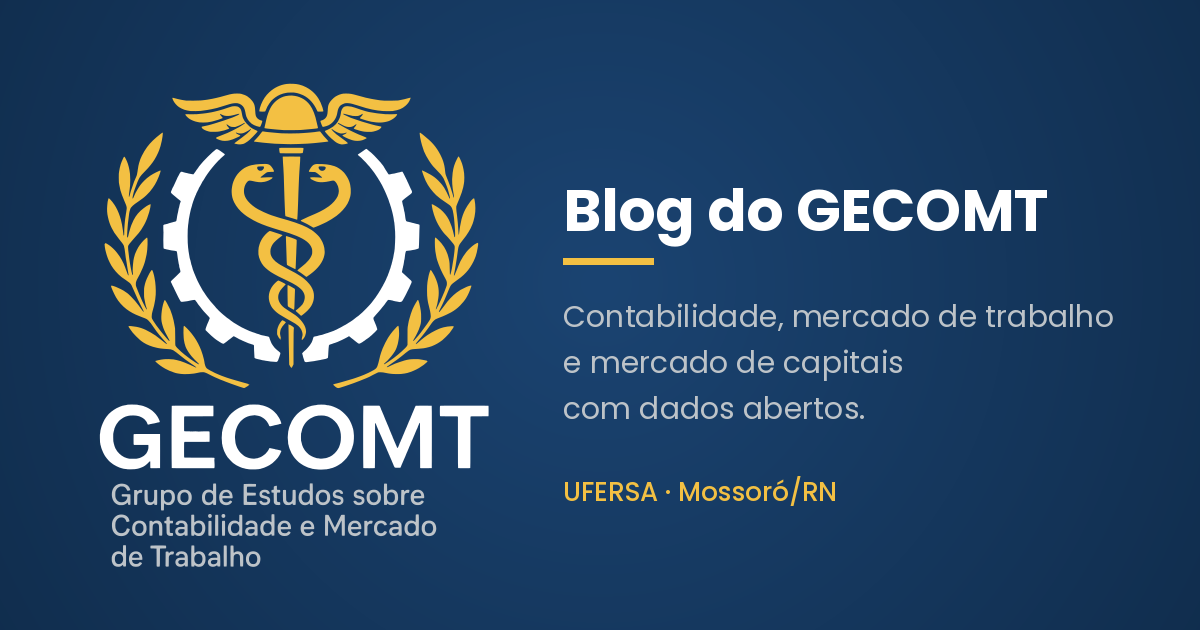
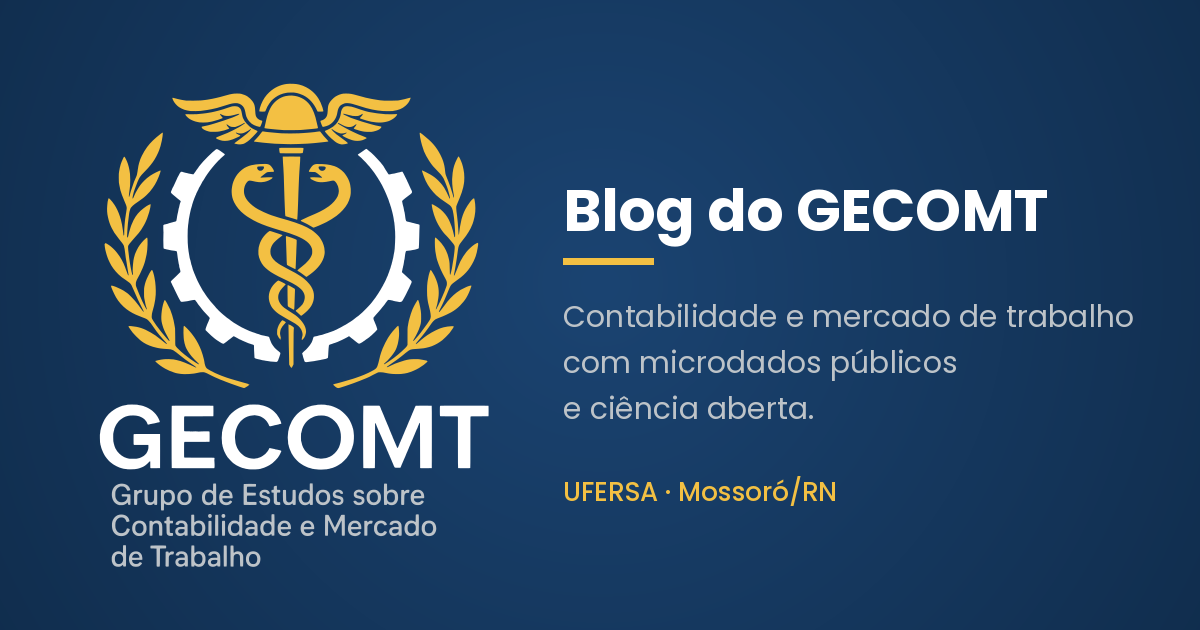
Remove menções a mercado de capitais
- Linhas de pesquisa reorganizadas em mercado de trabalho contábil,
  remuneração e desigualdades, e emprego e políticas públicas
- Retiradas referências a CVM, B3 e companhias abertas
- Imagem de compartilhamento atualizada

Claude-Session: https://claude.ai/code/session_01WcC2GVfUdnHwANy1HfuYzZ

Changed region(s): [[0.4625, 0.4825, 0.9558, 0.6032], [0.4625, 0.6333, 0.74, 0.6635]]

diff --git a/docs/blog/index.html b/docs/blog/index.html
@@ -487,7 +487,7 @@ window.Quarto = {
     </div>
 </div>
 <div class="list quarto-listing-default">
-<div class="quarto-post image-right" data-index="0" data-categories="QW4lQzMlQkFuY2lvJTJDR0VDT01U" data-listing-date-sort="1794538800000" data-listing-file-modified-sort="1794597342571" data-listing-date-modified-sort="NaN" data-listing-reading-time-sort="2" data-listing-word-count-sort="235">
+<div class="quarto-post image-right" data-index="0" data-categories="QW4lQzMlQkFuY2lvJTJDR0VDT01U" data-listing-date-sort="1794538800000" data-listing-file-modified-sort="1794604895022" data-listing-date-modified-sort="NaN" data-listing-reading-time-sort="2" data-listing-word-count-sort="224">
 <div class="thumbnail"><a href="../blog/posts/2026-11-13-boas-vindas/index.html" class="no-external">
 
 <img loading="lazy" src="../blog/posts/2026-11-13-boas-vindas/thumbnail.png" class="thumbnail-image" alt="Cartão com o título Boas-vindas ao blog do GECOMT sobre fundo azul institucional.">
@@ -519,7 +519,7 @@ Equipe GECOMT
 </a>
 </div>
 </div>
-<div class="quarto-post image-right" data-index="1" data-categories="ZGF0YUNBR0VEJTJDUGFjb3RlcyUyQ1IlMkNEYWRvcyUyMGFiZXJ0b3M=" data-listing-date-sort="1794538800000" data-listing-file-modified-sort="1794597570765" data-listing-date-modified-sort="NaN" data-listing-reading-time-sort="2" data-listing-word-count-sort="253">
+<div class="quarto-post image-right" data-index="1" data-categories="ZGF0YUNBR0VEJTJDUGFjb3RlcyUyQ1IlMkNEYWRvcyUyMGFiZXJ0b3M=" data-listing-date-sort="1794538800000" data-listing-file-modified-sort="1794597570000" data-listing-date-modified-sort="NaN" data-listing-reading-time-sort="2" data-listing-word-count-sort="253">
 <div class="thumbnail"><a href="../blog/posts/2026-11-13-conheca-o-datacaged/index.html" class="no-external">
 
 <img loading="lazy" src="../blog/posts/2026-11-13-conheca-o-datacaged/thumbnail.png" class="thumbnail-image" alt="Cartão com o título Conheça o dataCAGED e o logo hexagonal do pacote.">
@@ -555,7 +555,7 @@ Equipe GECOMT
 </a>
 </div>
 </div>
[2 lines of base64/hex data omitted]
 <div class="thumbnail"><a href="../blog/posts/2026-11-13-conheca-o-datarais/index.html" class="no-external">
 
 <img loading="lazy" src="../blog/posts/2026-11-13-conheca-o-datarais/thumbnail.png" class="thumbnail-image" alt="Cartão com o título Conheça o dataRAIS e o logo hexagonal do pacote.">
@@ -593,7 +593,7 @@ Equipe GECOMT
 </a>
 </div>
 </div>
[2 lines of base64/hex data omitted]
 <div class="thumbnail"><a href="../blog/posts/2026-11-13-microdados-novo-caged/index.html" class="no-external">
 
 <img loading="lazy" src="../blog/posts/2026-11-13-microdados-novo-caged/thumbnail.png" class="thumbnail-image" alt="Cartão com o título Microdados do Novo CAGED: primeiros passos em R.">
@@ -629,7 +629,7 @@ Equipe GECOMT
 </a>
 </div>
 </div>
-<div class="quarto-post image-right" data-index="4" data-categories="UiUyQ0NpJUMzJUFBbmNpYSUyMGRlJTIwZGFkb3M=" data-listing-date-sort="1723604400000" data-listing-file-modified-sort="1794597936177" data-listing-date-modified-sort="NaN" data-listing-reading-time-sort="1" data-listing-word-count-sort="141">
+<div class="quarto-post image-right" data-index="4" data-categories="UiUyQ0NpJUMzJUFBbmNpYSUyMGRlJTIwZGFkb3M=" data-listing-date-sort="1723604400000" data-listing-file-modified-sort="1794597936000" data-listing-date-modified-sort="NaN" data-listing-reading-time-sort="1" data-listing-word-count-sort="141">
 <div class="thumbnail"><a href="../blog/posts/2024-08-14-treinamento-r-rstudio/index.html" class="no-external">
 
 <img loading="lazy" src="../blog/posts/2024-08-14-treinamento-r-rstudio/treinamento.webp" class="thumbnail-image">
@@ -661,7 +661,7 @@ Alexsandro Prado
 </a>
 </div>
 </div>
-<div class="quarto-post image-right" data-index="5" data-categories="UiUyQ0NpJUMzJUFBbmNpYSUyMGRlJTIwZGFkb3M=" data-listing-date-sort="1723345200000" data-listing-file-modified-sort="1794597936175" data-listing-date-modified-sort="NaN" data-listing-reading-time-sort="3" data-listing-word-count-sort="512">
+<div class="quarto-post image-right" data-index="5" data-categories="UiUyQ0NpJUMzJUFBbmNpYSUyMGRlJTIwZGFkb3M=" data-listing-date-sort="1723345200000" data-listing-file-modified-sort="1794597936000" data-listing-date-modified-sort="NaN" data-listing-reading-time-sort="3" data-listing-word-count-sort="512">
 <div class="thumbnail"><a href="../blog/posts/2024-08-11-boas-praticas-r/index.html" class="no-external">
 
 <img loading="lazy" src="../blog/posts/2024-08-11-boas-praticas-r/boaspraticasr.webp" class="thumbnail-image">
@@ -693,7 +693,7 @@ Alexsandro Prado
 </a>
 </div>
 </div>
-<div class="quarto-post image-right" data-index="6" data-categories="TWVyY2FkbyUyMGRlJTIwdHJhYmFsaG8=" data-listing-date-sort="1723345200000" data-listing-file-modified-sort="1794597936176" data-listing-date-modified-sort="NaN" data-listing-reading-time-sort="4" data-listing-word-count-sort="663">
+<div class="quarto-post image-right" data-index="6" data-categories="TWVyY2FkbyUyMGRlJTIwdHJhYmFsaG8=" data-listing-date-sort="1723345200000" data-listing-file-modified-sort="1794597936000" data-listing-date-modified-sort="NaN" data-listing-reading-time-sort="4" data-listing-word-count-sort="663">
 <div class="thumbnail"><a href="../blog/posts/2024-08-11-contador-mercado-trabalho/index.html" class="no-external">
 
 <img loading="lazy" src="../blog/posts/2024-08-11-contador-mercado-trabalho/contadortrabalho.webp" class="thumbnail-image">
@@ -723,7 +723,7 @@ Alexsandro Prado
 </a>
 </div>
 </div>
-<div class="quarto-post image-right" data-index="7" data-categories="UiUyQ0NpJUMzJUFBbmNpYSUyMGRlJTIwZGFkb3M=" data-listing-date-sort="1723345200000" data-listing-file-modified-sort="1794597936177" data-listing-date-modified-sort="NaN" data-listing-reading-time-sort="5" data-listing-word-count-sort="973">
+<div class="quarto-post image-right" data-index="7" data-categories="UiUyQ0NpJUMzJUFBbmNpYSUyMGRlJTIwZGFkb3M=" data-listing-date-sort="1723345200000" data-listing-file-modified-sort="1794597936000" data-listing-date-modified-sort="NaN" data-listing-reading-time-sort="5" data-listing-word-count-sort="973">
 <div class="thumbnail"><a href="../blog/posts/2024-08-11-instalacao-r-rstudio-rtools/index.html" class="no-external">
 
 <img loading="lazy" src="../blog/posts/2024-08-11-instalacao-r-rstudio-rtools/rinstalacao.webp" class="thumbnail-image">

diff --git a/docs/index.html b/docs/index.html
@@ -462,18 +462,25 @@ window.Quarto = {
 <p>Os trabalhos do grupo combinam teoria contábil, econometria aplicada e grandes bases de dados públicas.</p>
 </div>
 <div class="grid gap-4">
-<div class="g-col-12 g-col-md-6 g-col-lg-6">
+<div class="g-col-12 g-col-md-4">
+<div class="gecomt-card">
+<p><span class="gecomt-icon"><i class="bi bi-briefcase-fill" aria-hidden="true"></i></span></p>
+<h3 id="mercado-de-trabalho-contábil">Mercado de trabalho contábil</h3>
+<p>Perfil dos profissionais contábeis no mercado formal, demanda por habilidades e tendências da profissão.</p>
+</div>
+</div>
+<div class="g-col-12 g-col-md-4">
+<div class="gecomt-card">
+<p><span class="gecomt-icon"><i class="bi bi-cash-coin" aria-hidden="true"></i></span></p>
+<h3 id="remuneração-e-desigualdades">Remuneração e desigualdades</h3>
+<p>Diferenças salariais por gênero, raça, região e setor de atuação, com métodos de decomposição.</p>
+</div>
+</div>
+<div class="g-col-12 g-col-md-4">
 <div class="gecomt-card">
 <p><span class="gecomt-icon"><i class="bi bi-people-fill" aria-hidden="true"></i></span></p>
-<h3 id="mercado-de-trabalho">Mercado de trabalho</h3>
-<p>Emprego formal, salários, rotatividade e políticas públicas com microdados do CAGED e da RAIS.</p>
-</div>
-</div>
-<div class="g-col-12 g-col-md-6 g-col-lg-6">
-<div class="gecomt-card">
-<p><span class="gecomt-icon"><i class="bi bi-graph-up-arrow" aria-hidden="true"></i></span></p>
-<h3 id="mercado-de-capitais">Mercado de capitais</h3>
-<p>Gerenciamento de resultados, inovação e valor de mercado das companhias listadas na B3.</p>
+<h3 id="emprego-e-políticas-públicas">Emprego e políticas públicas</h3>
+<p>Emprego formal, rotatividade e avaliação de políticas como o seguro-desemprego, com microdados do CAGED e da RAIS.</p>
 </div>
 </div>
 </div>
@@ -512,7 +519,7 @@ window.Quarto = {
 </div>
 <div id="listing-ultimos-posts" class="quarto-listing quarto-listing-container-grid">
 <div class="list grid quarto-listing-cols-3">
-<div class="g-col-1" data-index="0" data-categories="QW4lQzMlQkFuY2lvJTJDR0VDT01U" data-listing-date-sort="1794538800000" data-listing-file-modified-sort="1794597342571" data-listing-date-modified-sort="NaN" data-listing-reading-time-sort="2" data-listing-word-count-sort="235">
+<div class="g-col-1" data-index="0" data-categories="QW4lQzMlQkFuY2lvJTJDR0VDT01U" data-listing-date-sort="1794538800000" data-listing-file-modified-sort="1794604895022" data-listing-date-modified-sort="NaN" data-listing-reading-time-sort="2" data-listing-word-count-sort="224">
 <a href="./blog/posts/2026-11-13-boas-vindas/index.html" class="quarto-grid-link">
 <div class="quarto-grid-item card h-100 card-left">
 <p class="card-img-top">
@@ -540,7 +547,7 @@ Boas-vindas ao blog do GECOMT
 </div>
 </div></a>
 </div>
-<div class="g-col-1" data-index="1" data-categories="ZGF0YUNBR0VEJTJDUGFjb3RlcyUyQ1IlMkNEYWRvcyUyMGFiZXJ0b3M=" data-listing-date-sort="1794538800000" data-listing-file-modified-sort="1794597570765" data-listing-date-modified-sort="NaN" data-listing-reading-time-sort="2" data-listing-word-count-sort="253">
+<div class="g-col-1" data-index="1" data-categories="ZGF0YUNBR0VEJTJDUGFjb3RlcyUyQ1IlMkNEYWRvcyUyMGFiZXJ0b3M=" data-listing-date-sort="1794538800000" data-listing-file-modified-sort="1794597570000" data-listing-date-modified-sort="NaN" data-listing-reading-time-sort="2" data-listing-word-count-sort="253">
 <a href="./blog/posts/2026-11-13-conheca-o-datacaged/index.html" class="quarto-grid-link">
 <div class="quarto-grid-item card h-100 card-left">
 <p class="card-img-top">
@@ -572,7 +579,7 @@ Conheça o dataCAGED: microdados do CAGED direto no DuckDB
 </div>
 </div></a>
 </div>
[2 lines of base64/hex data omitted]
 <a href="./blog/posts/2026-11-13-conheca-o-datarais/index.html" class="quarto-grid-link">
 <div class="quarto-grid-item card h-100 card-left">
 <p class="card-img-top">

diff --git a/docs/sobre.html b/docs/sobre.html
@@ -421,7 +421,7 @@ gtag('config', 'GTM-T9KC9QL7', { 'anonymize_ip': true});
 <li>Orientar políticas públicas voltadas à formação e à qualificação de profissionais contábeis, promovendo o equilíbrio entre oferta e demanda;</li>
 <li>Perceber as principais barreiras à entrada de novos profissionais no mercado de trabalho contábil, permitindo o desenvolvimento de estratégias que facilitem a sua integração.</li>
 </ul>
-<p>Nesse sentido, os trabalhos desenvolvidos privilegiam (i) o uso de microdados públicos, como o Cadastro Geral de Empregados e Desempregados (CAGED) e a Relação Anual de Informações Sociais (RAIS); (ii) bases de companhias abertas, como as da Comissão de Valores Mobiliários (CVM) e da B3; e (iii) práticas de ciência aberta, com código e ferramentas disponibilizados à comunidade.</p>
+<p>Nesse sentido, os trabalhos desenvolvidos privilegiam (i) o uso de microdados públicos, como o Cadastro Geral de Empregados e Desempregados (CAGED) e a Relação Anual de Informações Sociais (RAIS); e (ii) práticas de ciência aberta, com código e ferramentas disponibilizados à comunidade.</p>
 <blockquote class="blockquote">
 <p><em>“Conselhos para os meus três filhos: […] nunca desista do trabalho. Trabalho dá significado e propósito, e a vida está vazia sem ele.”</em></p>
 <p>Stephen Hawking</p>
@@ -430,13 +430,17 @@ gtag('config', 'GTM-T9KC9QL7', { 'anonymize_ip': true});
 <section id="linhas-de-pesquisa" class="level2">
 <h2 class="anchored" data-anchor-id="linhas-de-pesquisa">Linhas de pesquisa</h2>
 <dl>
-<dt>Mercado de trabalho e políticas públicas</dt>
+<dt>Mercado de trabalho contábil</dt>
 <dd>
-Emprego formal, rotatividade, salários, desigualdades e avaliação de programas como o seguro-desemprego.
+Perfil dos profissionais contábeis no mercado formal, demanda por habilidades, barreiras à entrada e tendências da profissão.
 </dd>
-<dt>Mercado de capitais</dt>
+<dt>Remuneração e desigualdades</dt>
 <dd>
-Gerenciamento de resultados, inovação e valor de mercado das companhias brasileiras.
+Diferenças salariais em função de gênero, raça, região e setor de atuação, com métodos de decomposição.
+</dd>
+<dt>Emprego e políticas públicas</dt>
+<dd>
+Emprego formal, rotatividade e avaliação de programas como o seguro-desemprego, com microdados do CAGED e da RAIS.
 </dd>
 </dl>
 </section>

diff --git a/docs/pacotes/datacaged.html b/docs/pacotes/datacaged.html
@@ -667,7 +667,7 @@ window.Quarto = {
 <h2 class="anchored" data-anchor-id="posts-sobre-o-datacaged">Posts sobre o dataCAGED</h2>
 <div id="listing-posts-datacaged" class="quarto-listing quarto-listing-container-grid">
 <div class="list grid quarto-listing-cols-2">
-<div class="g-col-1" data-index="0" data-categories="ZGF0YUNBR0VEJTJDUGFjb3RlcyUyQ1IlMkNEYWRvcyUyMGFiZXJ0b3M=" data-listing-date-sort="1794538800000" data-listing-file-modified-sort="1794597570765" data-listing-date-modified-sort="NaN" data-listing-reading-time-sort="2" data-listing-word-count-sort="253">
+<div class="g-col-1" data-index="0" data-categories="ZGF0YUNBR0VEJTJDUGFjb3RlcyUyQ1IlMkNEYWRvcyUyMGFiZXJ0b3M=" data-listing-date-sort="1794538800000" data-listing-file-modified-sort="1794597570000" data-listing-date-modified-sort="NaN" data-listing-reading-time-sort="2" data-listing-word-count-sort="253">
 <a href="../blog/posts/2026-11-13-conheca-o-datacaged/index.html" class="quarto-grid-link">
 <div class="quarto-grid-item card h-100 card-left">
 <p class="card-img-top">
@@ -688,7 +688,7 @@ Conheça o dataCAGED: microdados do CAGED direto no DuckDB
 </div>
 </div></a>
 </div>
[2 lines of base64/hex data omitted]
 <a href="../blog/posts/2026-11-13-microdados-novo-caged/index.html" class="quarto-grid-link">
 <div class="quarto-grid-item card h-100 card-left">
 <p class="card-img-top">

diff --git a/docs/blog/posts/2026-11-13-boas-vindas/index.html b/docs/blog/posts/2026-11-13-boas-vindas/index.html
@@ -434,8 +434,8 @@ gtag('config', 'GTM-T9KC9QL7', { 'anonymize_ip': true});
 <p>Em linhas gerais, os conteúdos do blog organizam-se em três frentes:</p>
 <ol type="1">
 <li><strong>Notas de pesquisa</strong>: sínteses de artigos, dissertações e trabalhos de conclusão de curso desenvolvidos pelos membros do grupo, com destaque para os principais achados e suas implicações;</li>
-<li><strong>Tutoriais com dados abertos</strong>: roteiros reprodutíveis, em R e Python, para o uso de bases como o Cadastro Geral de Empregados e Desempregados (CAGED), a Relação Anual de Informações Sociais (RAIS) e os dados abertos da Comissão de Valores Mobiliários (CVM);</li>
-<li><strong>Comentários técnicos</strong>: análises de mudanças normativas e regulatórias, a exemplo da legislação trabalhista e da regulação do mercado de capitais.</li>
+<li><strong>Tutoriais com dados abertos</strong>: roteiros reprodutíveis, em R e Python, para o uso de bases como o Cadastro Geral de Empregados e Desempregados (CAGED) e a Relação Anual de Informações Sociais (RAIS);</li>
+<li><strong>Comentários técnicos</strong>: análises de mudanças normativas e regulatórias, a exemplo da legislação trabalhista e das políticas de emprego e renda.</li>
 </ol>
 </section>
 <section id="ciência-aberta-como-princípio" class="level2">

diff --git a/docs/pacotes/datarais.html b/docs/pacotes/datarais.html
@@ -660,7 +660,7 @@ window.Quarto = {
 <h2 class="anchored" data-anchor-id="posts-sobre-o-datarais">Posts sobre o dataRAIS</h2>
 <div id="listing-posts-datarais" class="quarto-listing quarto-listing-container-grid">
 <div class="list grid quarto-listing-cols-2">
[2 lines of base64/hex data omitted]
 <a href="../blog/posts/2026-11-13-conheca-o-datarais/index.html" class="quarto-grid-link">
 <div class="quarto-grid-item card h-100 card-left">
 <p class="card-img-top">

diff --git a/docs/equipe.html b/docs/equipe.html
@@ -480,7 +480,7 @@ Prof.&nbsp;Dr.&nbsp;Alexsandro Prado
 Coordenador
 </div>
 <div class="card-text listing-description delink">
-<p>Professor Adjunto do Departamento de Ciências Sociais Aplicadas e Humanas da UFERSA. Doutor em Economia (UFPB) e mestre em Ciências Contábeis (UnB). Pesquisa mercado de trabalho com microdados e mercado de capitais.</p>
+<p>Professor Adjunto do Departamento de Ciências Sociais Aplicadas e Humanas da UFERSA. Doutor em Economia (UFPB) e mestre em Ciências Contábeis (UnB). Pesquisa mercado de trabalho com microdados públicos.</p>
 </div>
 </div>
 </div></a>
